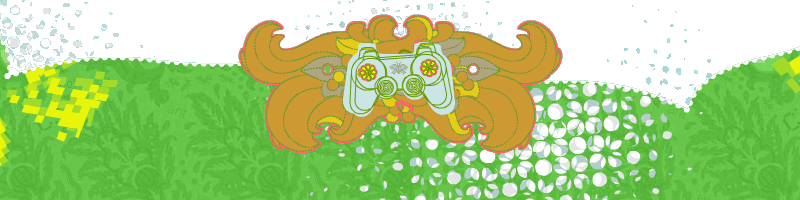
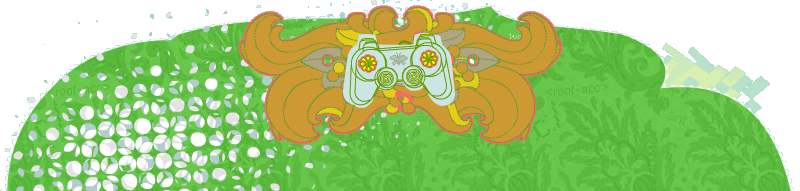
Further site revampage.

diff --git a/pages/style.css b/pages/style.css
@@ -5,19 +5,17 @@ body {
   color: #4b6419;
 }
 
+.main_body {
+  background: #a2d8d8 url(/images/main_background.png) no-repeat;
+}
+
+.normal_body {
+  background: #a2d8d8 url(/images/header_background.png) no-repeat;
+}
+
 a:link, a:visited { color: #4b6419 }
 a:hover { color: #8c1d12 }
 a:active { color: #8c1d12 }
-
-.main_table {
-  background: #a2d8d8 url(/images/main_background.png) no-repeat;
-  border: 1px solid black;
-}
-
-.header_table {
-  background: #a2d8d8 url(/images/header_background.png) no-repeat;
-  border: 1px solid black;
-}
 
 table {
   border-collapse: collapse;
@@ -26,10 +24,6 @@ table {
 
 th, td, center, div { /* ns 4 */
   font-family: Arial, Helvetica, sans-serif;
-}
-
-.ftable td {
-//  border: 1px solid black;
 }
 
 pre {

diff --git a/pages/footer.html b/pages/footer.html
@@ -1,16 +1,12 @@
 
 </td></tr>
 
-<tr><td width="212">&nbsp;</td>
-<td style="padding-top: 25" class="ftable">
+<tr><td style="padding-left: 15; padding-top: 25; padding-bottom: 15" class="ftable">&copy;2005
+<a href="mailto:gardens@threerings.net">Three Rings Design, Inc</a></td>
+<td colspan="2" style="padding-top: 25; padding-bottom: 15" class="ftable">
 <!--#include file="links_incl.html"-->
-
-&nbsp;&nbsp;&nbsp;&nbsp;&nbsp;&nbsp;&nbsp;&nbsp;&nbsp;
-&copy;2005
-<a href="mailto:gardens@threerings.net">Three Rings Design, Inc</a></td></tr>
-
+</td></tr>
 <tr><td colspan="2"><img src="/images/footer_background.png"></td></tr>
 </table>
-
 </body>
 </html>

diff --git a/pages/header.html b/pages/header.html
@@ -6,10 +6,10 @@
 <link rel="SHORTCUT ICON" href="/favicon.ico">
 </head>
 
-<body>
+<body marginwidth=0 marginheight=0 class="normal_body">
 <!-- main structural table -->
-<table class="header_table" cellpadding="0" width="785">
-<tr><td width="212" height="98">&nbsp;</td>
+<table cellpadding="0" width="785" height="100%">
+<tr><td width="400" height="110">&nbsp;</td>
 <td class="ftable" valign="bottom">
 <!--#include file="links_incl.html"--></td></tr>
-<tr><td colspan="2" style="padding-left: 5px; padding-right: 5px; padding-top: 15px">
+<tr><td valign="top" height="100%" colspan="2" style="padding-top: 15px; padding-left: 15px">

diff --git a/pages/index.html b/pages/index.html
@@ -6,9 +6,9 @@
 <!--<link rel="SHORTCUT ICON" href="/favicon.ico">-->
 </head>
 
-<body>
+<body marginwidth=0 marginheight=0 class="main_body">
 <!-- main structural table -->
-<table class="main_table" cellpadding="0" width="785">
+<table cellpadding="0" width="785">
 <tr><td width="130" height="565"></td><td width="685" valign="top">
 
 <table cellpadding="0" cellspacing="0" border="0">
